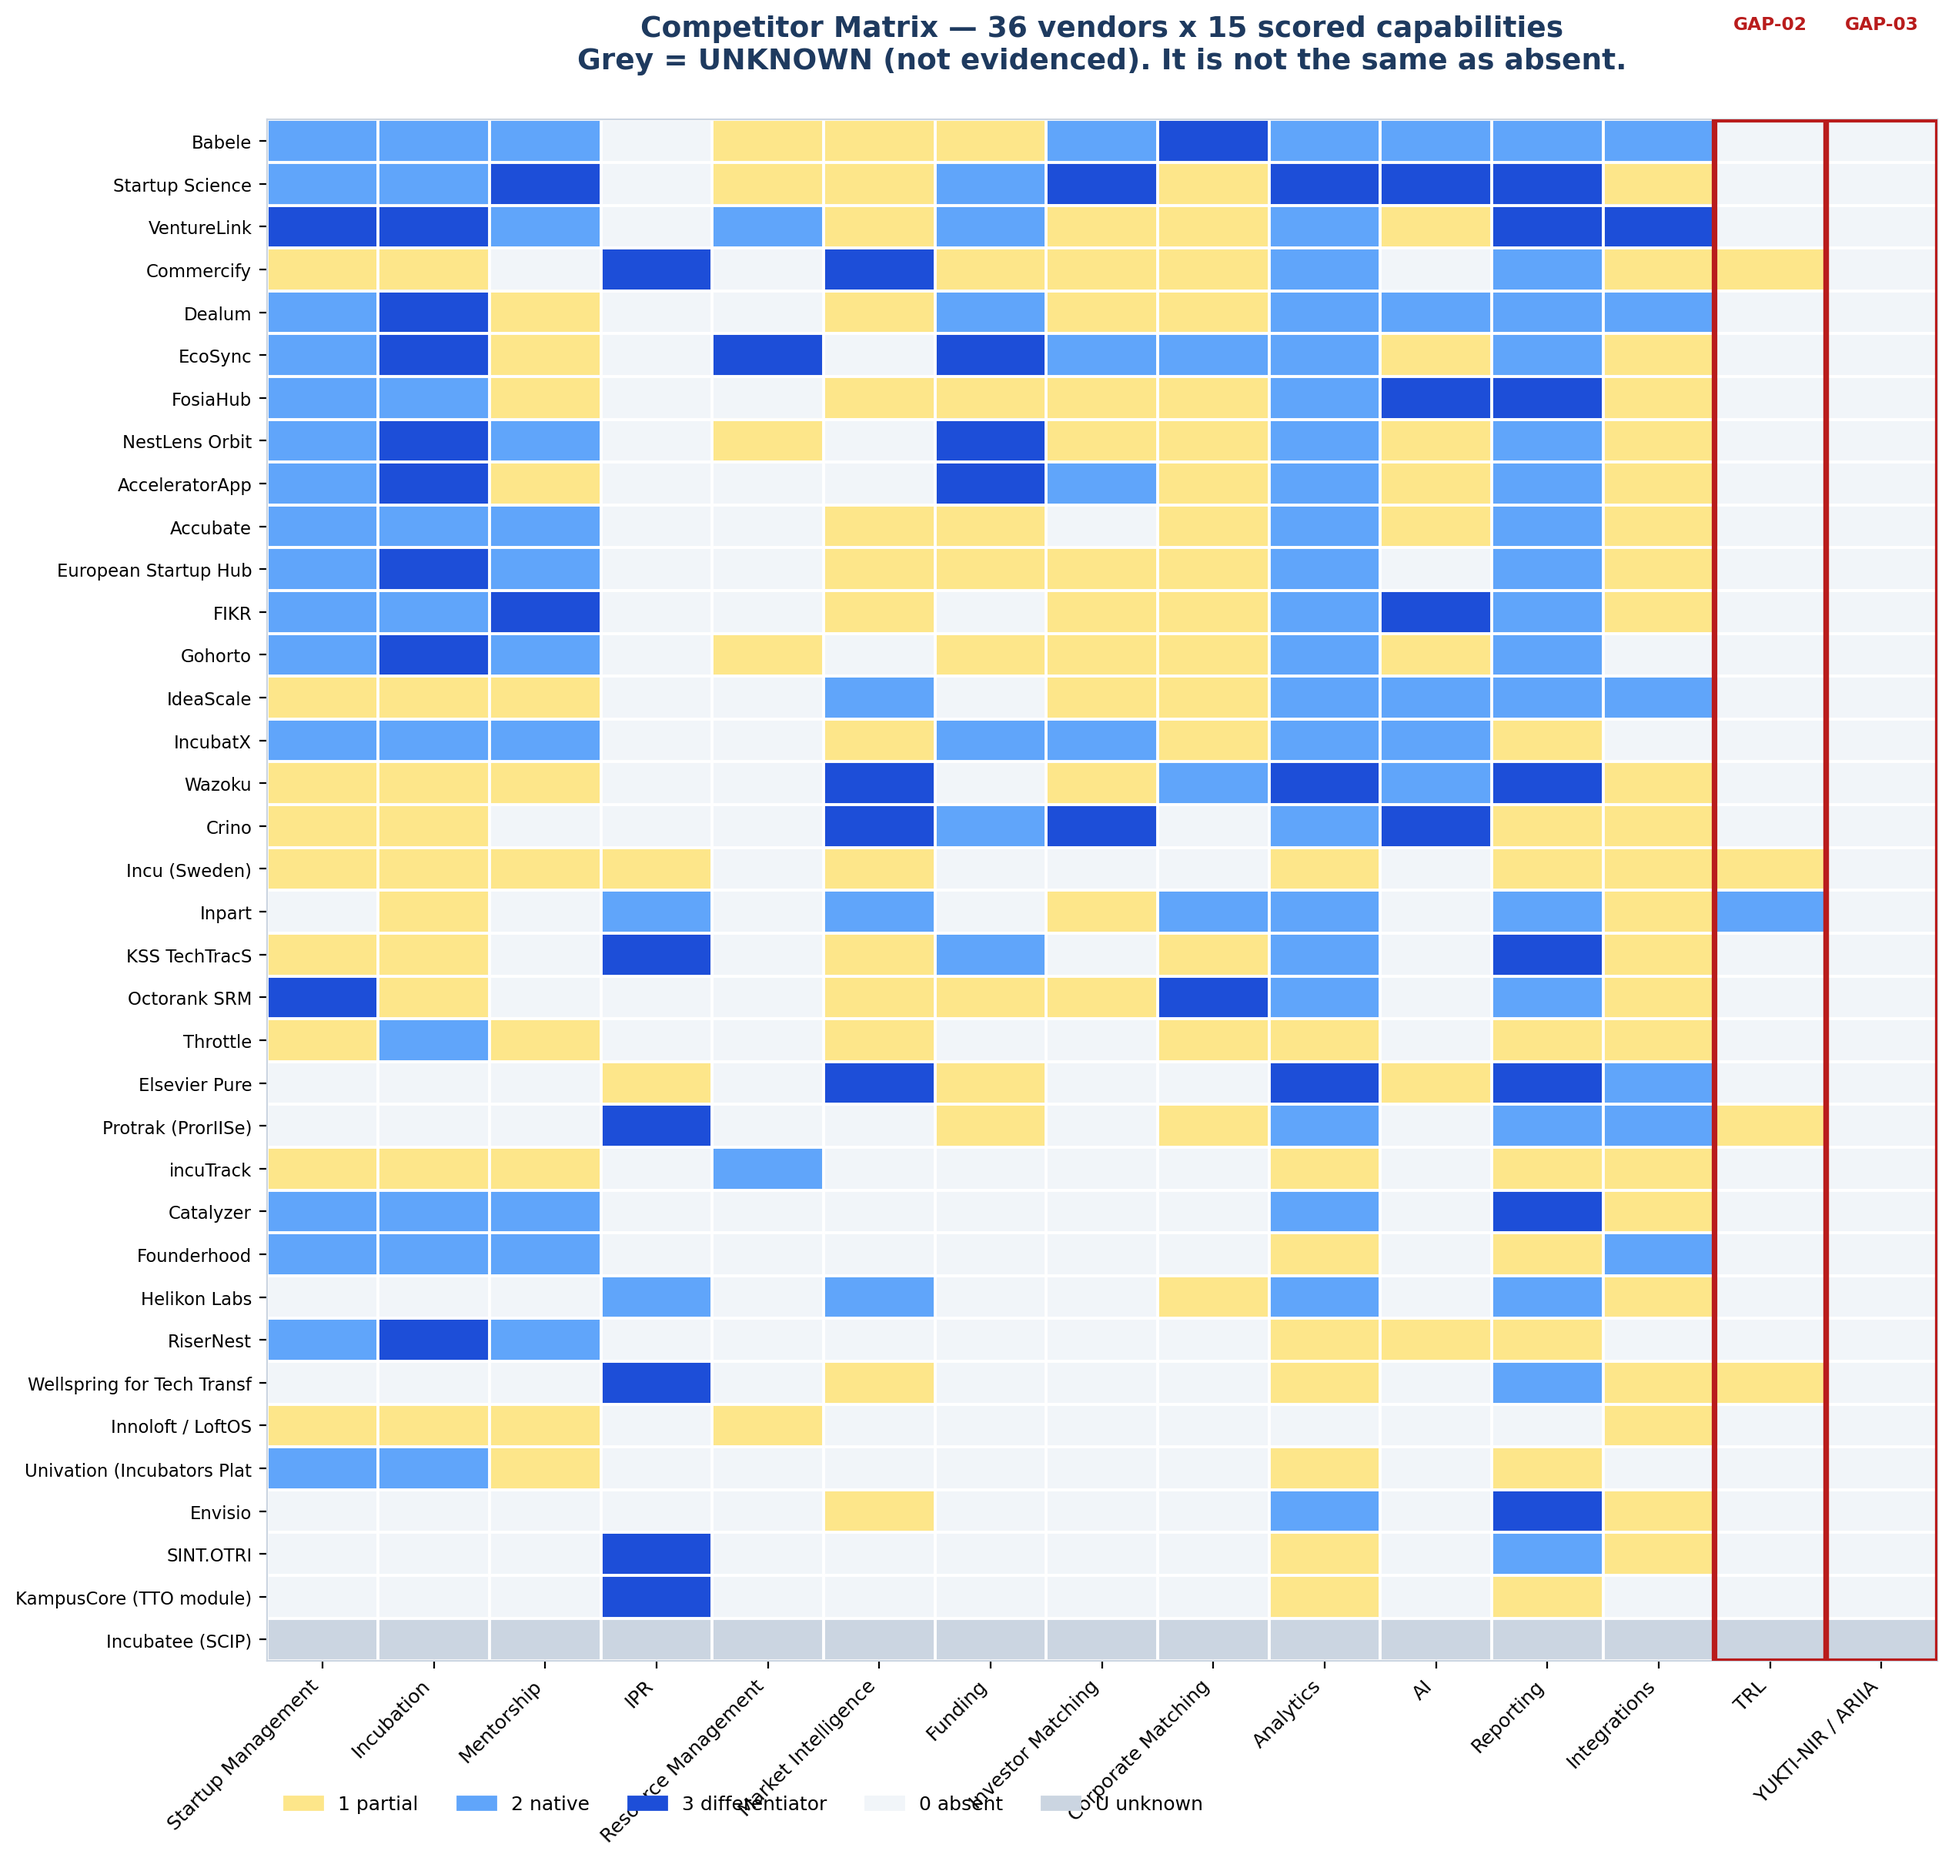
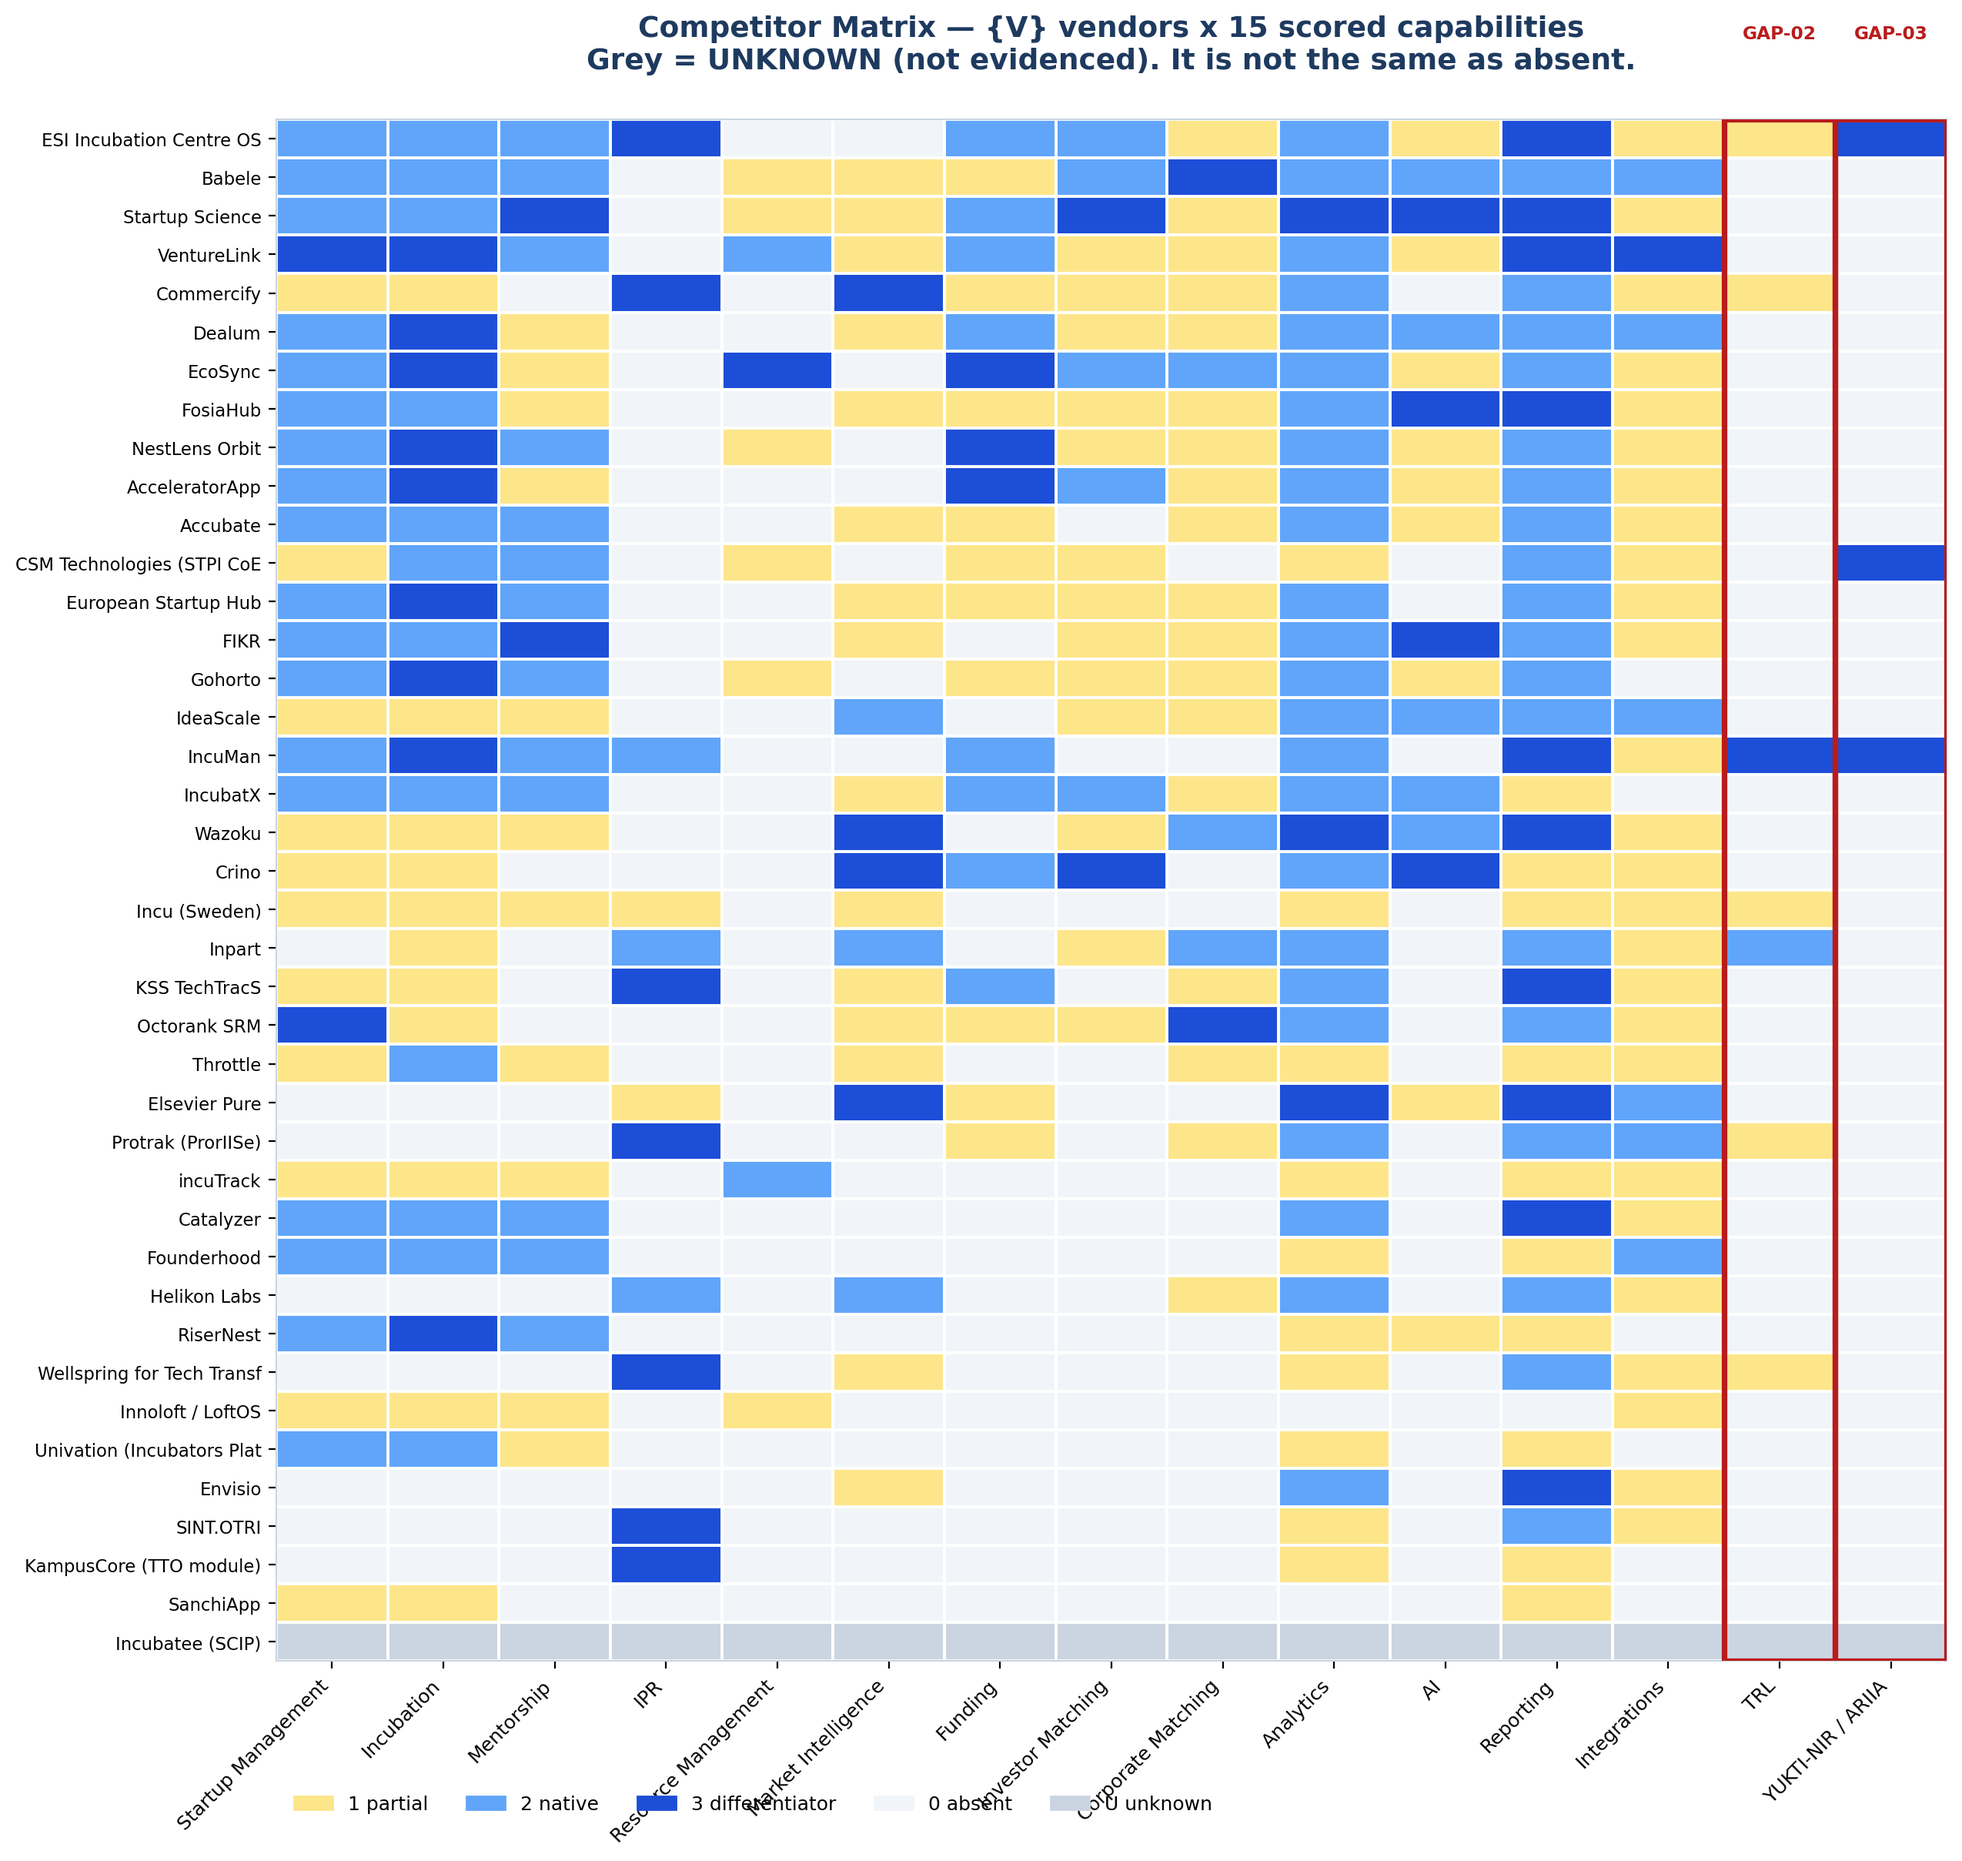
Update README and charts for Phase 10: reflect changes in vendor count and capabilities

diff --git a/docs/research/08_Competitor_Matrix/README.md b/docs/research/08_Competitor_Matrix/README.md
@@ -9,7 +9,7 @@
 
 # Competitor Matrix
 
-Phase 10. **36 vendors × 15 scored capabilities = 540 scored cells**,
+Phase 10. **40 vendors × 15 scored capabilities = 600 scored cells**,
 across the 27 columns this phase was asked to produce.
 
 **Workbook:** [`_exports/xlsx/08_Competitor_Matrix.xlsx`](../_exports/xlsx/08_Competitor_Matrix.xlsx)
@@ -37,7 +37,7 @@ tech-transfer platforms existed and had simply not been found.
 
 ## What changed at this phase
 
-**8 new vendors, including the one that matters most.**
+**12 vendors added beyond Phase 9, including the one that matters most.**
 
 **Protrak (ProrIISe)**, built jointly by **IISc Bengaluru** and Prorigo Software,
 is a **named Indian university deployment**: in production 6+ years, 2,500+ users,
@@ -49,17 +49,17 @@ though for IP management, not incubation. See [GAP13_Correction.md](GAP13_Correc
 
 ![Coverage](../_exports/charts/phase10/p10_02_dimension_coverage.png)
 
-| Capability | Native or better, of 36 |
+| Capability | Native or better, of 40 |
 |---|---|
-| YUKTI-NIR / ARIIA *(added by Phase 10)* | 0 |
-| TRL *(added by Phase 10)* | 1 |
+| TRL *(added by Phase 10)* | 2 |
 | Resource Management | 3 |
+| YUKTI-NIR / ARIIA *(added by Phase 10)* | 3 |
 | Corporate Matching | 5 |
-| Investor Matching | 6 |
+| Market Intelligence | 7 |
 | … | … |
-| Incubation | 18 |
-| Analytics | 25 |
-| Reporting | 25 |
+| Incubation | 21 |
+| Analytics | 27 |
+| Reporting | 28 |
 
 **Incubation operations are saturated. Technology transfer and mandate compliance
 are not.** That is the entire competitive read.
@@ -72,10 +72,10 @@ are not.** That is the entire competitive read.
 |---|---|
 | VERIFIED — 20+ reviews AND a named institutional reference | 1 |
 | PROVEN — 10+ reviews, or a named institutional logo | 6 |
-| PARTIAL — breadth ≥ 6 and a named customer | 5 |
-| UNPROVEN — no third-party proof of any kind | 24 |
+| PARTIAL — breadth ≥ 6 and a named customer | 6 |
+| UNPROVEN — no third-party proof of any kind | 27 |
 
-**24 of 36 vendors have no third-party proof of any kind.**
+**27 of 40 vendors have no third-party proof of any kind.**
 These are evidence tiers, not quality tiers — a vendor can be UNPROVEN and still be
 excellent. UNPROVEN means nobody outside the company has demonstrated it works.
 
